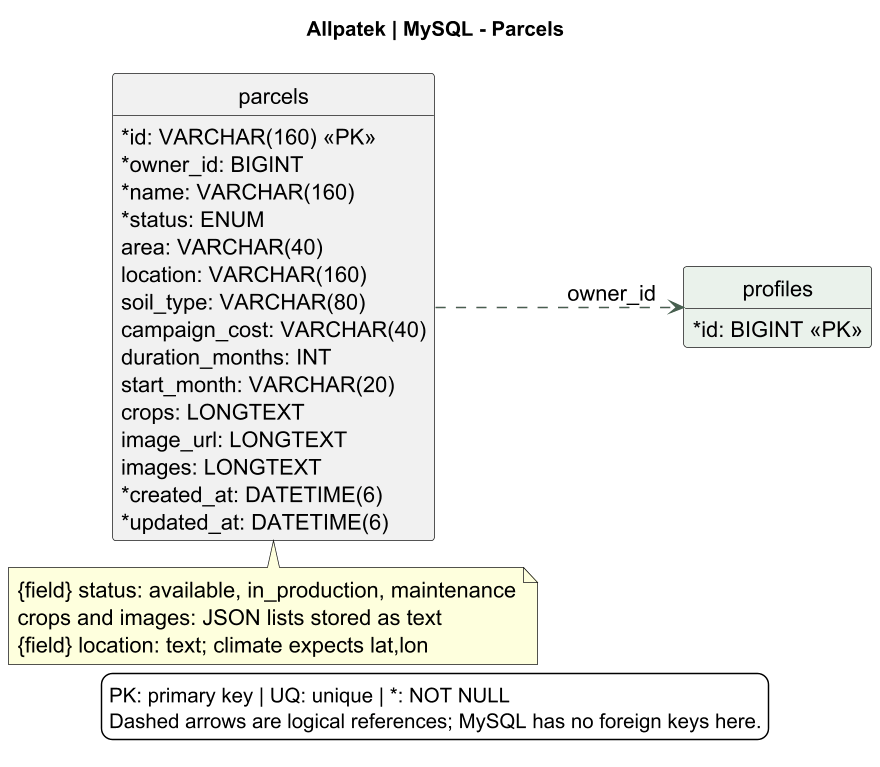
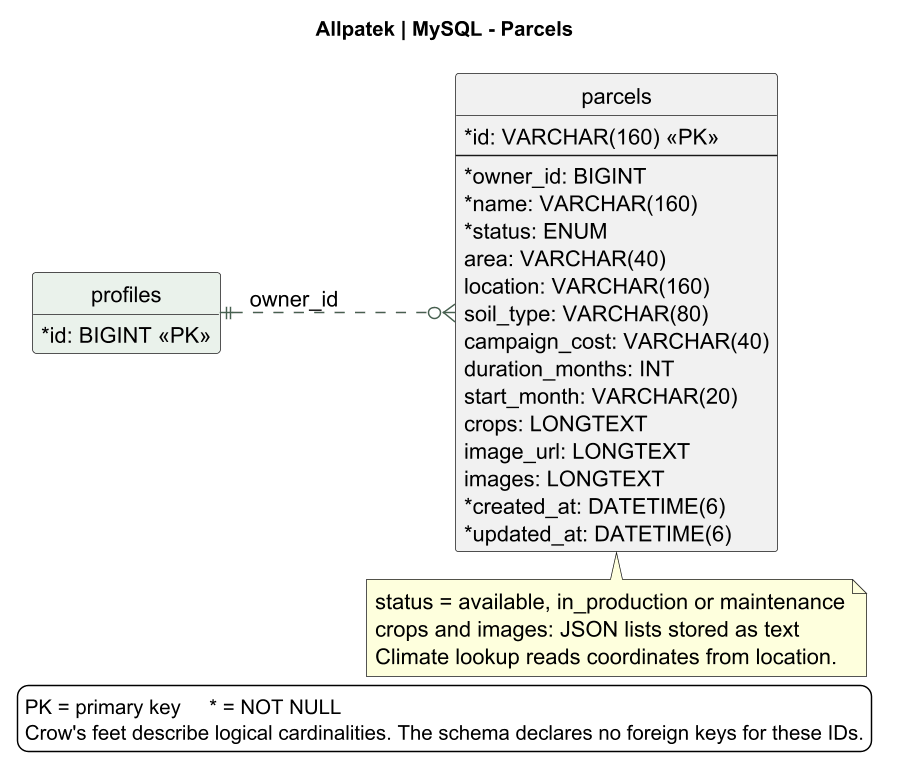
docs(database): specify parcels columns and constraints

Changed region(s): [[0.0, 0.09, 0.9818, 0.9896], [0.3375, 0.03, 0.6443, 0.06]]

diff --git a/README.md b/README.md
@@ -2283,9 +2283,11 @@ La plataforma conserva perfiles, parcelas, acuerdos, billeteras y evidencias en 
 
 *Figura 4.8.1. Relaciones entre las cinco tablas del modelo MySQL.* [Ampliar en SVG](assets/chapter-04/architecture/20-database-overview.svg) · [Fuente PlantUML](assets/chapter-04/architecture/20-database-overview.puml).
 
-![Figura 4.8.1-A. Tabla parcels y referencia a su propietario](assets/chapter-04/architecture/14-database-plots.png)
+Una parcela guarda el identificador del propietario. Un perfil puede estar asociado a varias parcelas. Las listas de cultivos e imágenes se serializan como texto JSON.
 
-*Figura 4.8.1-A. Tabla parcels y referencia a su propietario.* <a href="assets/chapter-04/architecture/14-database-plots.puml" style="text-decoration: none;">Fuente PlantUML</a> · <a href="assets/chapter-04/architecture/14-database-plots.svg" style="text-decoration: none;">SVG</a>.
+![Figura 4.8.1-A. Tabla parcels y su propietario](assets/chapter-04/architecture/14-database-plots.png)
+
+*Figura 4.8.1-A. Tabla parcels y su propietario.* [Ampliar en SVG](assets/chapter-04/architecture/14-database-plots.svg) · [Fuente PlantUML](assets/chapter-04/architecture/14-database-plots.puml).
 
 ![Figura 4.8.1-B. Tabla agreements y referencias a parcela y comerciante](assets/chapter-04/architecture/15-database-contracts.png)
 
